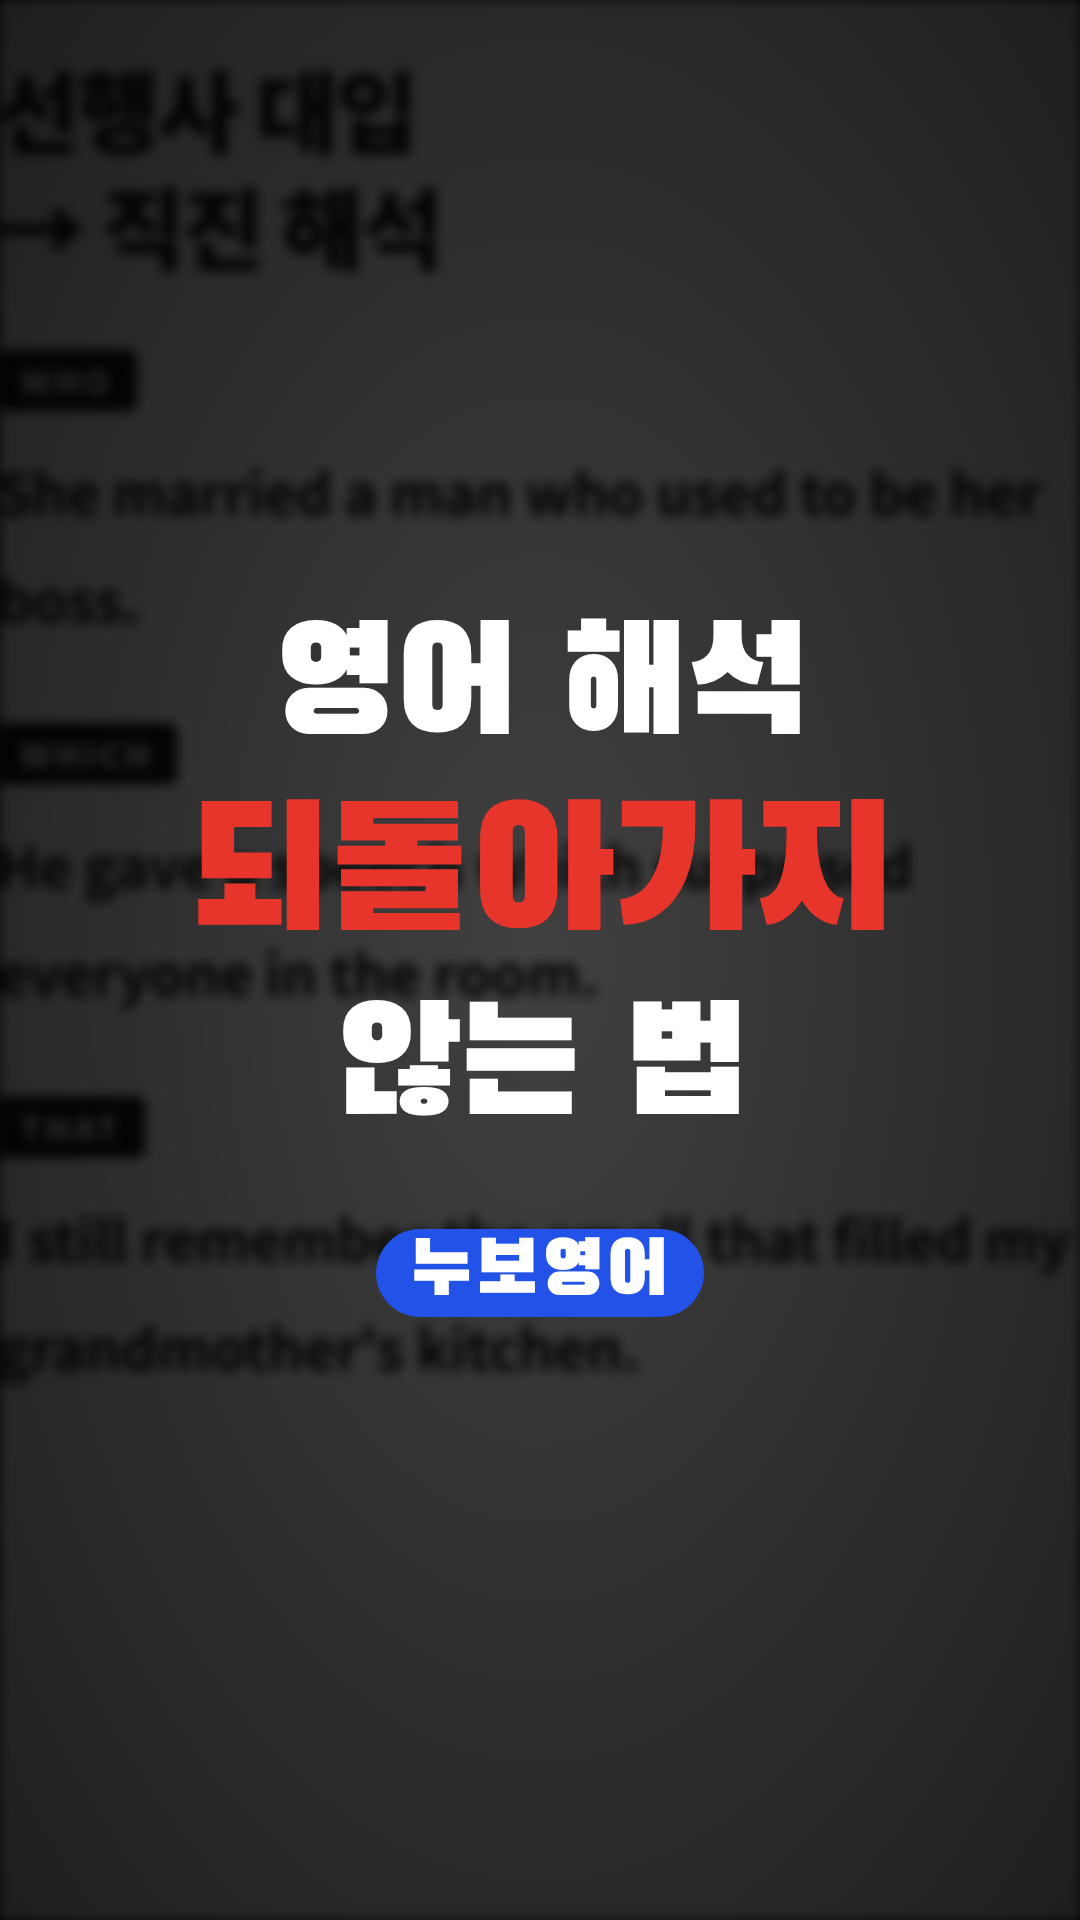
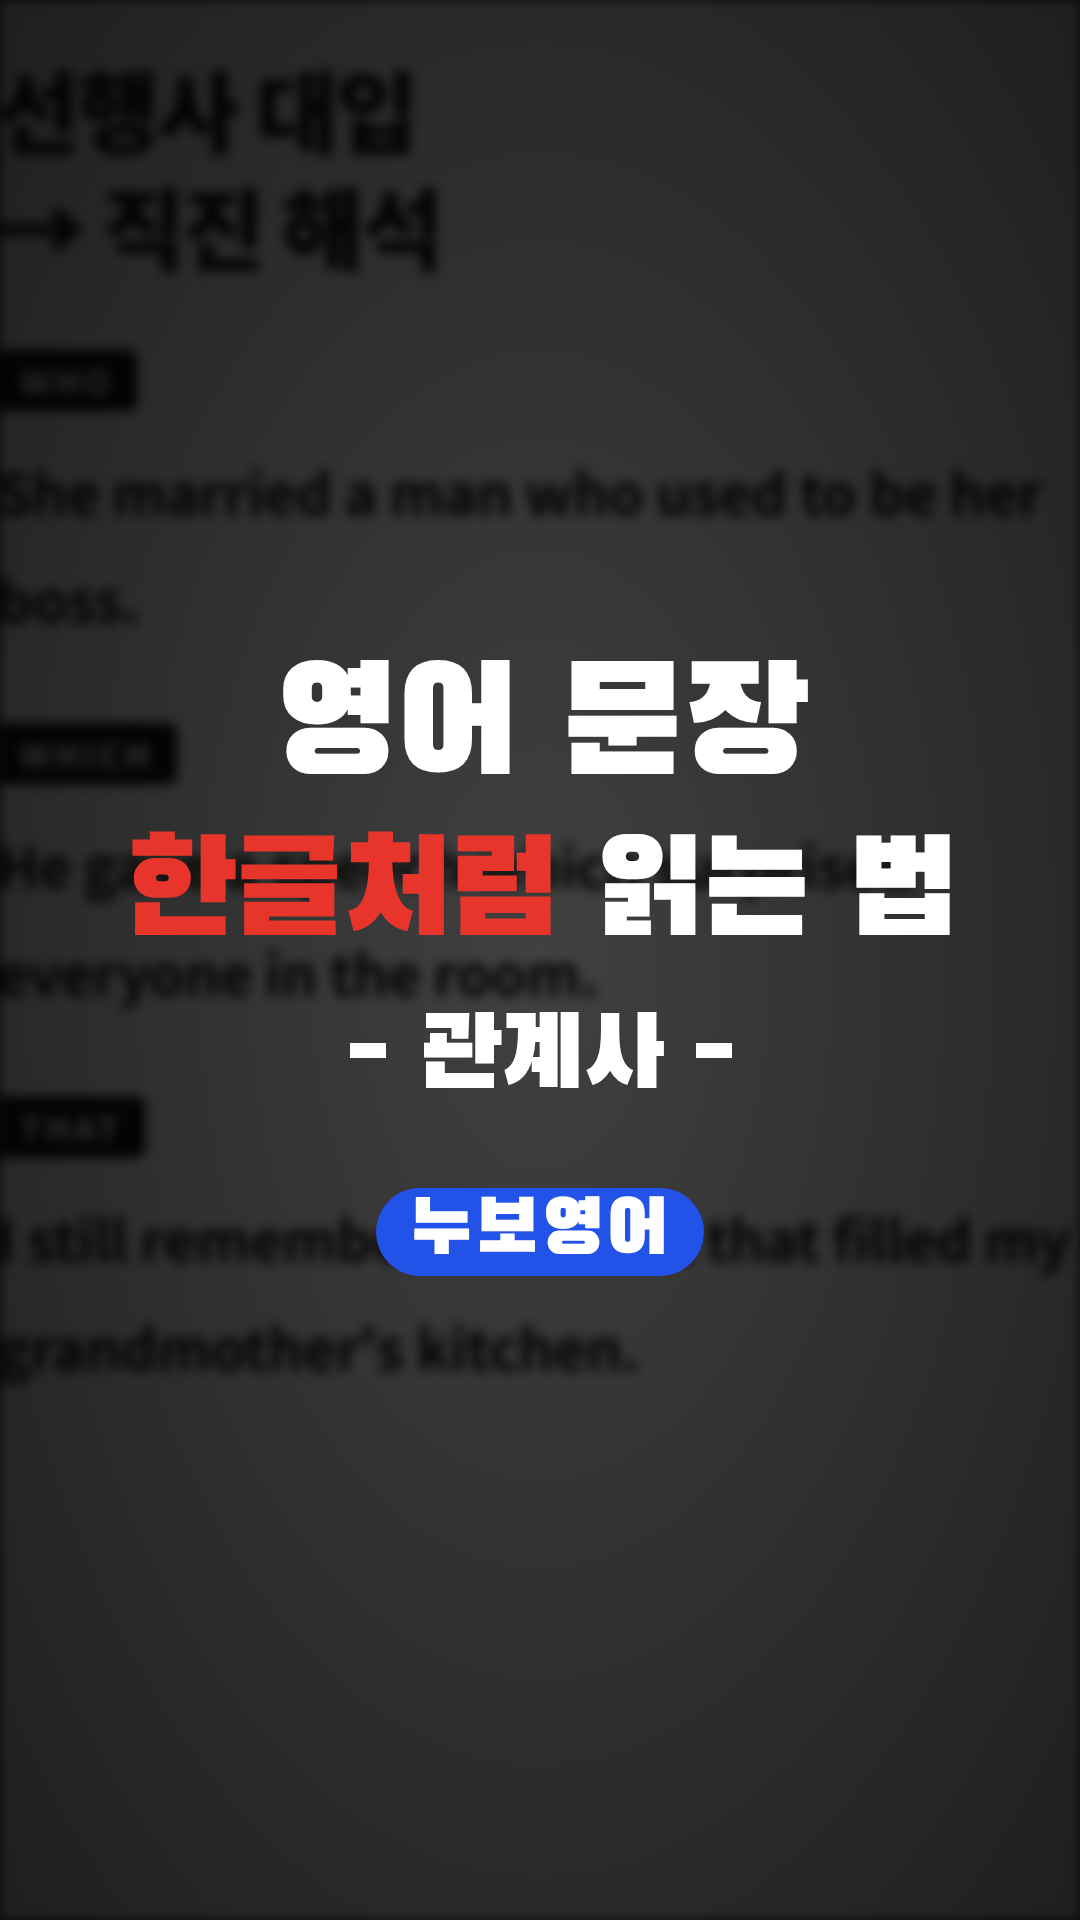
Relative-clause covers: 영어 문장 한글처럼 읽는 법 - 관계사 -
Claude-Session: https://claude.ai/code/session_01Rym27oCy7NFVPU9s4bdxz4

Changed region(s): [[0.1222, 0.3125, 0.8861, 0.6875]]

diff --git a/motion/src/Root.tsx b/motion/src/Root.tsx
@@ -89,9 +89,9 @@ export const RemotionRoot: React.FC = () => (
     <Composition id="Rp5Reel" component={Annot} fps={30} width={1080} height={1920} durationInFrames={3948}
       defaultProps={{video: 'rp5.mp4', look: 'C', title: '영어 해석\n{되돌아가지 않는} 법', marks: rp5.marks as Mark[], lines: rp5.lines, cards: [], notes: [], cams: rp5.cams}} />
     <Composition id="Rp5CoverLight" component={Cover} fps={30} width={1080} height={1920} durationInFrames={1}
-      defaultProps={{dark: false, lines: ['영어 해석', '{되돌아가지}', '않는 법']}} />
+      defaultProps={{dark: false, lines: ['영어 문장', '{한글처럼} 읽는 법', '_- 관계사 -']}} />
     <Composition id="Rp5CoverDark" component={Cover} fps={30} width={1080} height={1920} durationInFrames={1}
-      defaultProps={{dark: true, lines: ['영어 해석', '{되돌아가지}', '않는 법'], bg: 'cover_rp5_bg.jpg'}} />
+      defaultProps={{dark: true, lines: ['영어 문장', '{한글처럼} 읽는 법', '_- 관계사 -'], bg: 'cover_rp5_bg.jpg'}} />
     <Composition id="EmoReel" component={Emo} fps={FPS} width={1080} height={1920} durationInFrames={568}
       defaultProps={{video: 'rp_base.mp4', cues: [
         // clip 1: 혹시 올해 수능봐..? / 그렇다면 이 릴스가 / 수능 전 최고의 기회

diff --git a/motion/src/tip/Cover.tsx b/motion/src/tip/Cover.tsx
@@ -9,11 +9,16 @@ export type CoverProps = {dark?: boolean; lines?: string[]; bg?: string};
 const DEFAULT = ['해석 못해도', '{주제 1분컷}', '하는 법'];
 
 // A line that is entirely {..} is the big red accent line; {..} inside a line colours just that part.
-const Line: React.FC<{t: string; dark?: boolean}> = ({t, dark}) => {
+const Line: React.FC<{t: string; dark?: boolean}> = ({t: raw, dark}) => {
+  let t = raw;
+  const small = t.startsWith('_');            // '_text' = smaller sub-line
+  if (small) t = t.slice(1);
   const whole = /^\{[^}]*\}$/.test(t);
   const base = dark ? '#fff' : BLUE;
+  const em = [...t.replace(/[{}]/g, '')].reduce((w, c) => w + (c === ' ' ? 0.3 : /[가-힣]/.test(c) ? 0.98 : 0.6), 0);
+  const size = Math.min(small ? 100 : whole ? 172 : 150, 990 / em);   // never wider than the frame
   return (
-    <div style={{fontSize: whole ? 172 : 150, color: whole ? RED : base, whiteSpace: 'nowrap'}}>
+    <div style={{fontSize: size, color: whole ? RED : base, whiteSpace: 'nowrap', marginTop: small ? 24 : 0}}>
       {t.split(/(\{[^}]+\})/).filter(Boolean).map((p, i) => p.startsWith('{') ? <span key={i} style={{color: RED}}>{p.slice(1, -1)}</span> : <React.Fragment key={i}>{p}</React.Fragment>)}
     </div>
   );
